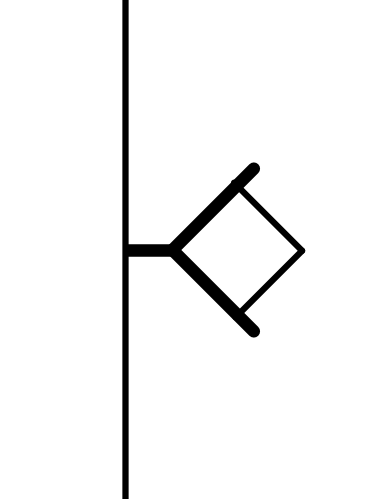
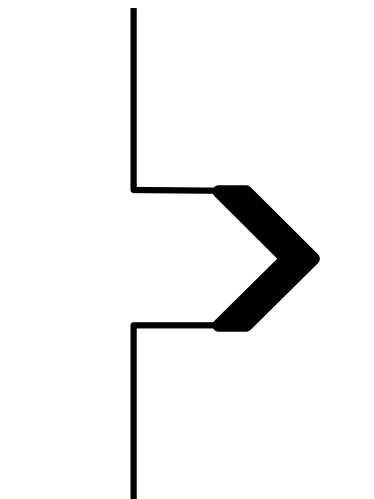
Updated compute graph plot

Changed region(s): [[0.3235, 0.0, 0.8529, 1.0]]

diff --git a/webapp/node-editor-component/ned-component/frontend/src/GRNComponent.jsx b/webapp/node-editor-component/ned-component/frontend/src/GRNComponent.jsx
@@ -3,7 +3,7 @@ import DNANode from "./DNANode"
 import RNANode from "./RNANode.jsx"
 import PRTNode from "./PRTNode.jsx"
 import React, { ReactNode } from "react"
-import dagre from "dagre"
+import Util from "./util.jsx"
 import ReactFlow, {
   ReactFlowProvider,
   addEdge,
@@ -11,45 +11,20 @@ import ReactFlow, {
   useEdgesState,
 } from "react-flow-renderer"
 
-const dagreGraph = new dagre.graphlib.Graph()
-dagreGraph.setDefaultEdgeLabel(() => ({}))
-
-const nodeWidth = 150
-const nodeHeight = 270
-
-const getLayoutedElements = (nodes, edges, direction = "TB") => {
-  const isHorizontal = direction === "LR"
-  dagreGraph.setGraph({ rankdir: direction })
-  nodes.forEach((node) => {
-    dagreGraph.setNode(node.id, { width: nodeWidth, height: nodeHeight })
-  })
-  edges.forEach((edge) => {
-    dagreGraph.setEdge(edge.source, edge.target)
-  })
-  dagre.layout(dagreGraph)
-  nodes.forEach((node) => {
-    const nodeWithPosition = dagreGraph.node(node.id)
-    node.targetPosition = isHorizontal ? "left" : "top"
-    node.sourcePosition = isHorizontal ? "right" : "bottom"
-    // We are shifting the dagre node position (anchor=center center) to the top left
-    // so it matches the React Flow node anchor point (top left).
-    node.position = {
-      x: nodeWithPosition.x - nodeWidth / 2,
-      y: nodeWithPosition.y - nodeHeight / 2,
-    }
-    return node
-  })
-  return { nodes, edges }
-}
-
 const nodeTypes = { DNA: DNANode, RNA: RNANode, PRT: PRTNode }
+
+const typeDim = {
+  DNA: { width: 180, height: 350 },
+  RNA: { width: 180, height: 100 },
+  PRT: { width: 180, height: 100 },
+}
 
 function GRNComponent(props) {
   const styled_edges = props.data.edges.map((e) => ({
-    style: { stroke: "black", "strokeWidth": "0.5" },
+    style: { stroke: "black", strokeWidth: "0.5" },
     ...e,
   }))
-  const layouted = getLayoutedElements(props.data.nodes, styled_edges)
+  const layouted = Util.getLayoutedElements(props.data.nodes, styled_edges, 60, 60, typeDim)
   const [nodes, setNodes, onNodesChange] = useNodesState(layouted.nodes)
   const [edges, setEdges, onEdgesChange] = useEdgesState(layouted.edges)
 

diff --git a/webapp/node-editor-component/ned-component/frontend/src/ComputeComponent.jsx b/webapp/node-editor-component/ned-component/frontend/src/ComputeComponent.jsx
@@ -16,20 +16,33 @@ import Util from "./util.jsx"
 
 const nodeTypes = {
   sequestron_ERN: SEQNode,
+  sequestron_RECOMBINASE: SEQNode,
   translation: TLNode,
   transcription: TCNode,
   constant: INNode,
   out: OUTNode,
 }
 
+const typeDim = {
+  sequestron_ERN: { width: 100, height: 50 },
+  sequestron_RECOMBINASE: { width: 100, height: 50 },
+  translation: { width: 30, height: 50 },
+  transcription: { width: 30, height: 50 },
+  constant: { width: 45, height: 63 },
+  out: { width: 20, height: 10 },
+}
+
 function ComputeComponent(props) {
-  const styled_edges = props.data.edges.map((e) => ({ style: { stroke: "black", strokeWidth: "0.5" }, ...e, }))
-  const layouted = Util.getLayoutedElements(props.data.nodes, styled_edges, 140, 100)
+  const styled_edges = props.data.edges.map((e) => ({
+    style: { stroke: "black", strokeWidth: "0.5" },
+    ...e,
+  }))
+  const layouted = Util.getLayoutedElements(props.data.nodes, styled_edges, 60, 60, typeDim)
   const [nodes, setNodes, onNodesChange] = useNodesState(layouted.nodes)
   const [edges, setEdges, onEdgesChange] = useEdgesState(layouted.edges)
 
   return (
-    <div style={{ width: "100%", height: 800 }}>
+    <div style={{ width: "100%", height: 1000 }}>
       <ReactFlow
         nodes={nodes}
         edges={edges}

diff --git a/webapp/node-editor-component/ned-component/frontend/src/style.css b/webapp/node-editor-component/ned-component/frontend/src/style.css
@@ -39,22 +39,29 @@ body {
   padding: 0;
   display: flex;
   align-items: center;
+  position: relative;
 }
 .dna-content img {
   width: 40px;
+  position: relative;
 }
 
 .dna-content .dna-elmt {
   margin-left: 15px;
   transition: width 0.2s, opacity 0.2s;
+  position: relative;
 }
 
 .dna-content.expanded {
+  position: relative;
+  z-index: 3000;
   width: 210px;
   transition-delay: 0;
 }
 
 .dna-content.notexpanded {
+  position: relative;
+  z-index: 0;
   width: 82px;
   transition-delay: 0.1s;
 }
@@ -137,16 +144,16 @@ body {
 .out-node {
   width: 20px;
   height: 20px;
-  border:none;
-  background:none;
+  border: none;
+  background: none;
 }
 .out-node .react-flow__handle {
-	background:none;
-	border:none;
+  background: none;
+  border: none;
 }
 
-.seq-name{
-bottom:20px;
+.seq-name {
+  bottom: 20px;
 }
 
 .seq-node {

diff --git a/webapp/node-editor-component/ned-component/frontend/src/util.jsx b/webapp/node-editor-component/ned-component/frontend/src/util.jsx
@@ -6,6 +6,7 @@ class Util {
     edges,
     nodeWidth = 150,
     nodeHeight = 270,
+    dimensionsDict = {},
     direction = "TB"
   ) => {
     const dagreGraph = new dagre.graphlib.Graph()
@@ -13,21 +14,25 @@ class Util {
     const isHorizontal = direction === "LR"
     dagreGraph.setGraph({ rankdir: direction })
     nodes.forEach((node) => {
-      dagreGraph.setNode(node.id, { width: nodeWidth, height: nodeHeight })
+      const w = node.type in dimensionsDict ? dimensionsDict[node.type].width : nodeWidth
+      const h = node.type in dimensionsDict ? dimensionsDict[node.type].height : nodeHeight
+      dagreGraph.setNode(node.id, { width: w, height: h })
     })
     edges.forEach((edge) => {
       dagreGraph.setEdge(edge.source, edge.target)
     })
     dagre.layout(dagreGraph)
     nodes.forEach((node) => {
+      const w = node.type in dimensionsDict ? dimensionsDict[node.type].width : nodeWidth
+      const h = node.type in dimensionsDict ? dimensionsDict[node.type].height : nodeHeight
       const nodeWithPosition = dagreGraph.node(node.id)
       node.targetPosition = isHorizontal ? "left" : "top"
       node.sourcePosition = isHorizontal ? "right" : "bottom"
       // We are shifting the dagre node position (anchor=center center) to the top left
       // so it matches the React Flow node anchor point (top left).
       node.position = {
-        x: nodeWithPosition.x - nodeWidth / 2,
-        y: nodeWithPosition.y - nodeHeight / 2,
+        x: nodeWithPosition.x - w / 2,
+        y: nodeWithPosition.y - h / 2,
       }
       return node
     })

diff --git a/webapp/node-editor-component/ned-component/frontend/src/SEQNode.jsx b/webapp/node-editor-component/ned-component/frontend/src/SEQNode.jsx
@@ -2,13 +2,13 @@ import React, { ReactNode, useCallback } from "react"
 import { Handle, Position } from "react-flow-renderer"
 
 function SEQNode(props) {
+	const shortName = (props.data.type === 'sequestron_ERN') ? 'ERN' : 'RCB';
   return (
     <div className="seq-node">
       <Handle type="target" position={Position.Top} id="0" style={{ left: 60 - 25 }} />
       <Handle type="target" position={Position.Top} id="1" style={{ left: 60 + 25 }} />
       <Handle type="source" position={Position.Bottom} />
-      {props.data.id}
-      <div className="seq-name"> ERN </div>
+      <div className="seq-name"> {shortName} </div>
     </div>
   )
 }